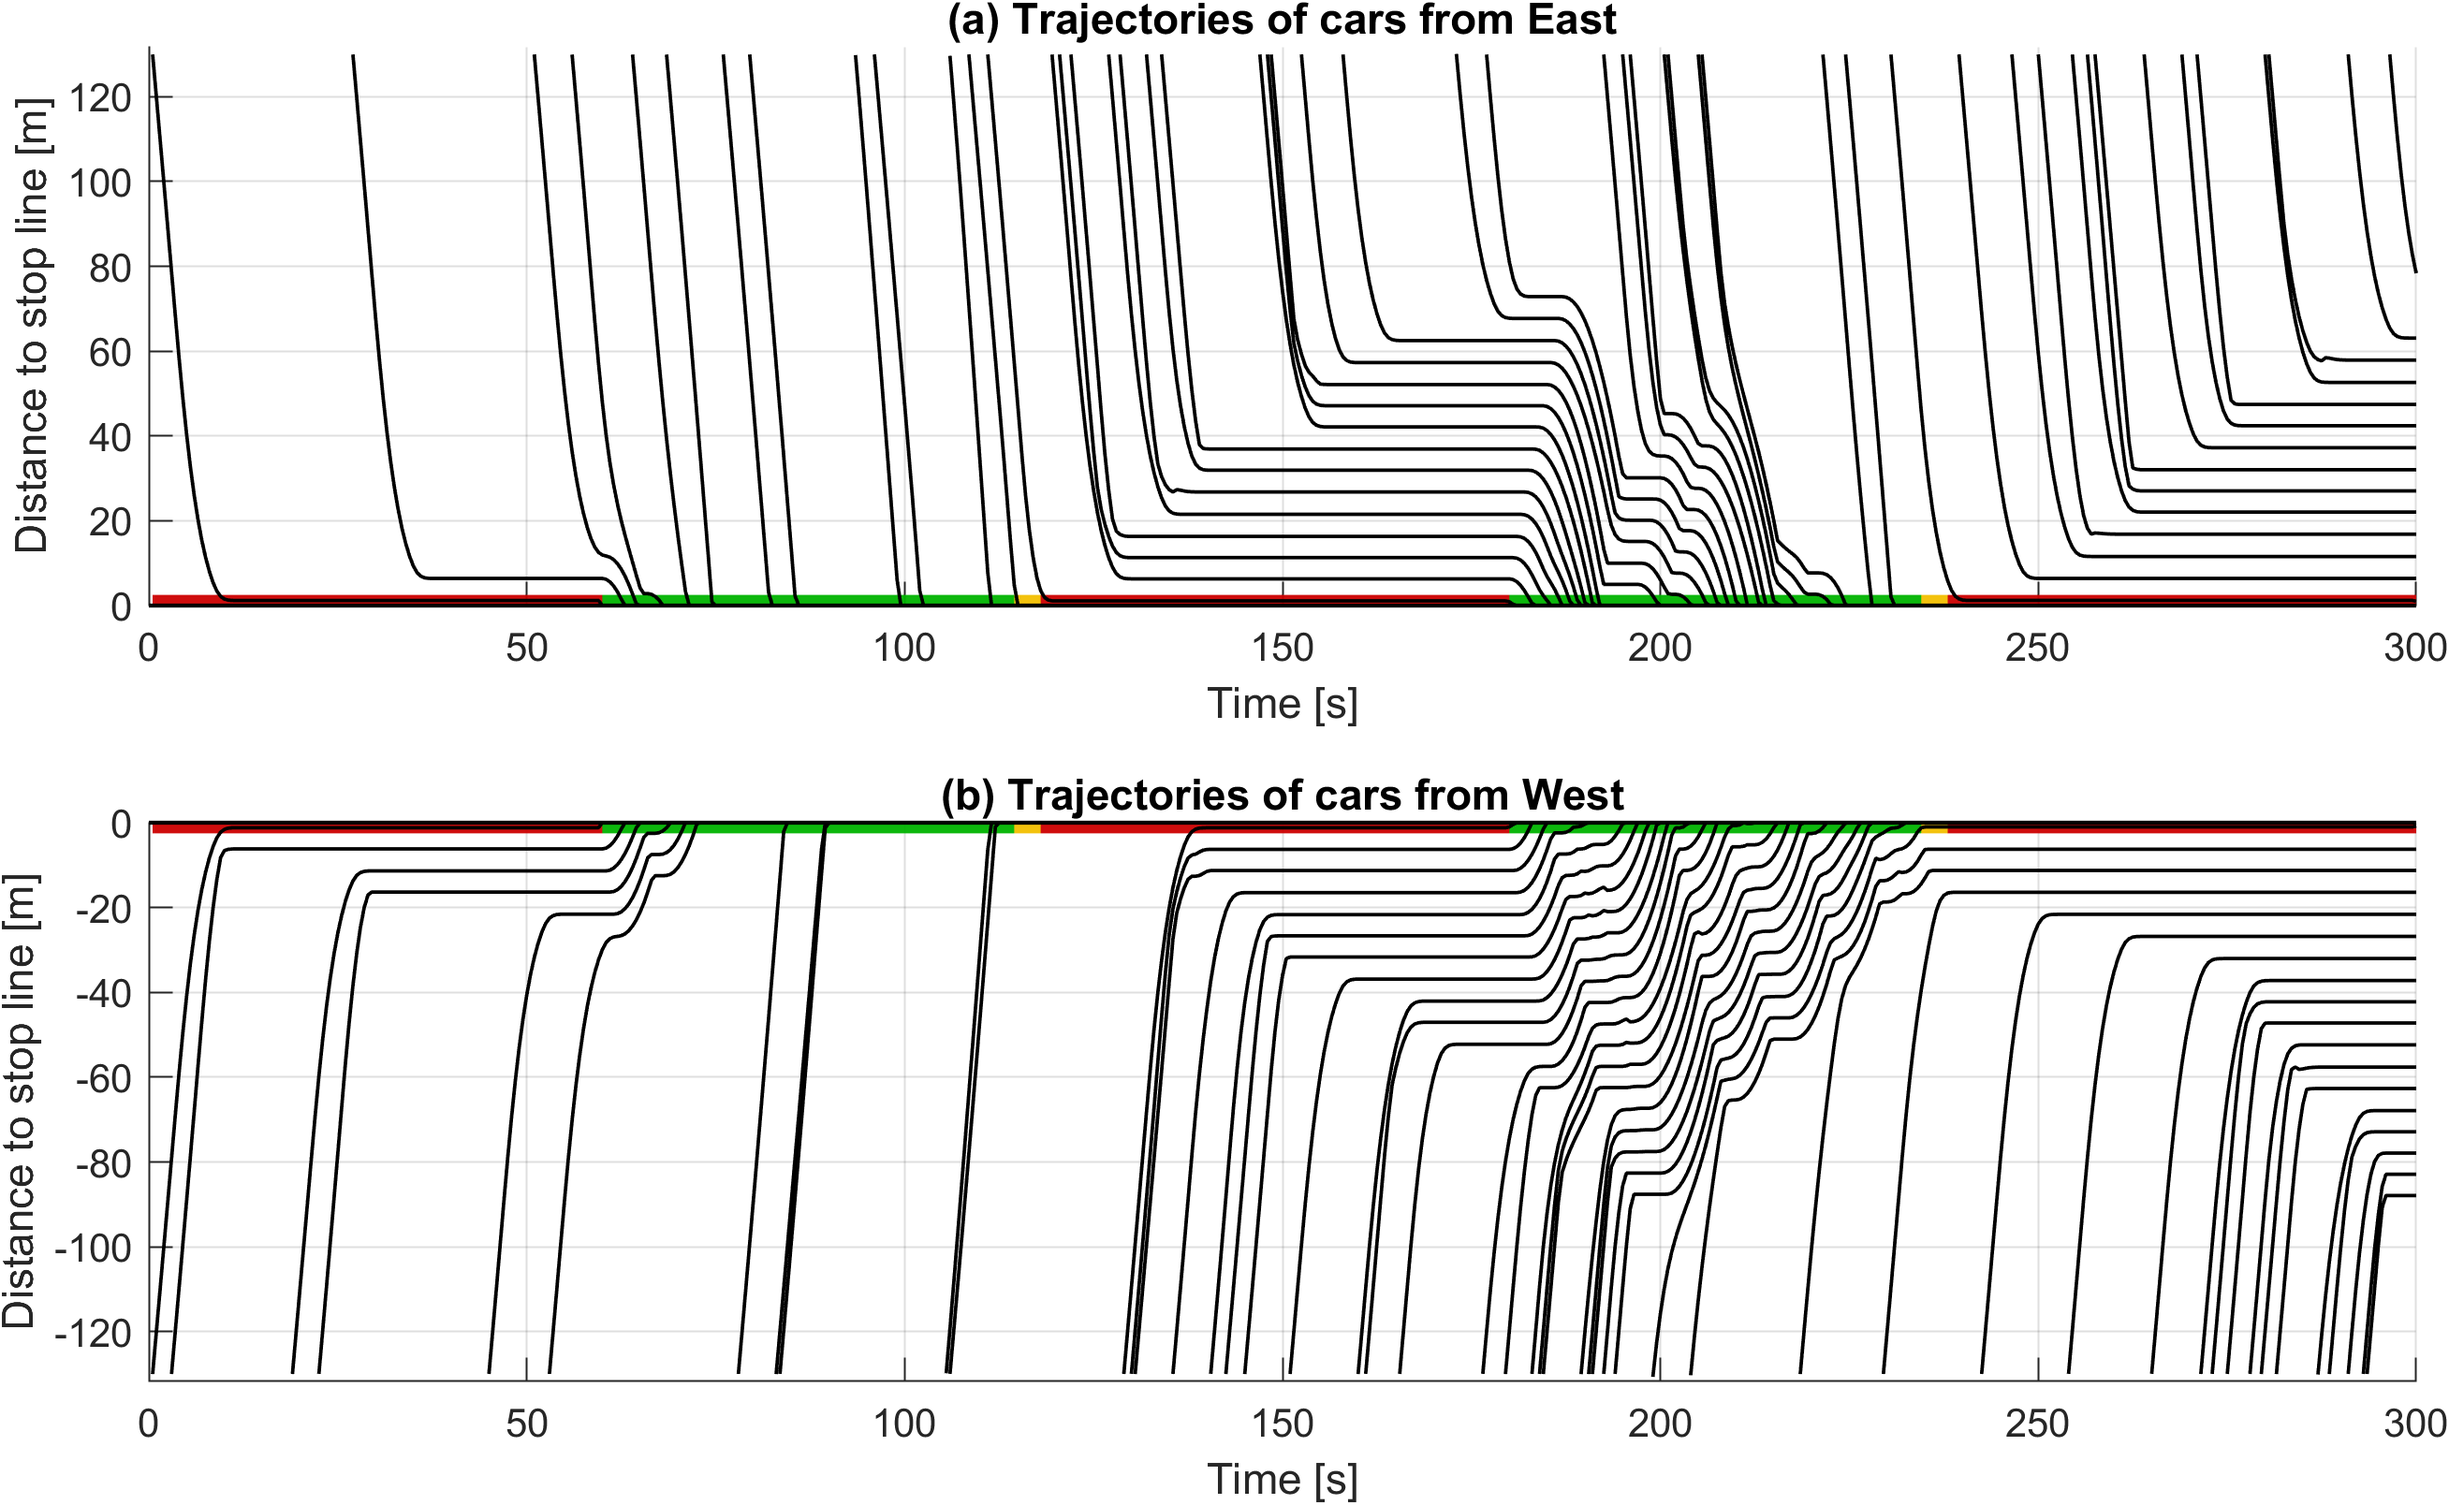
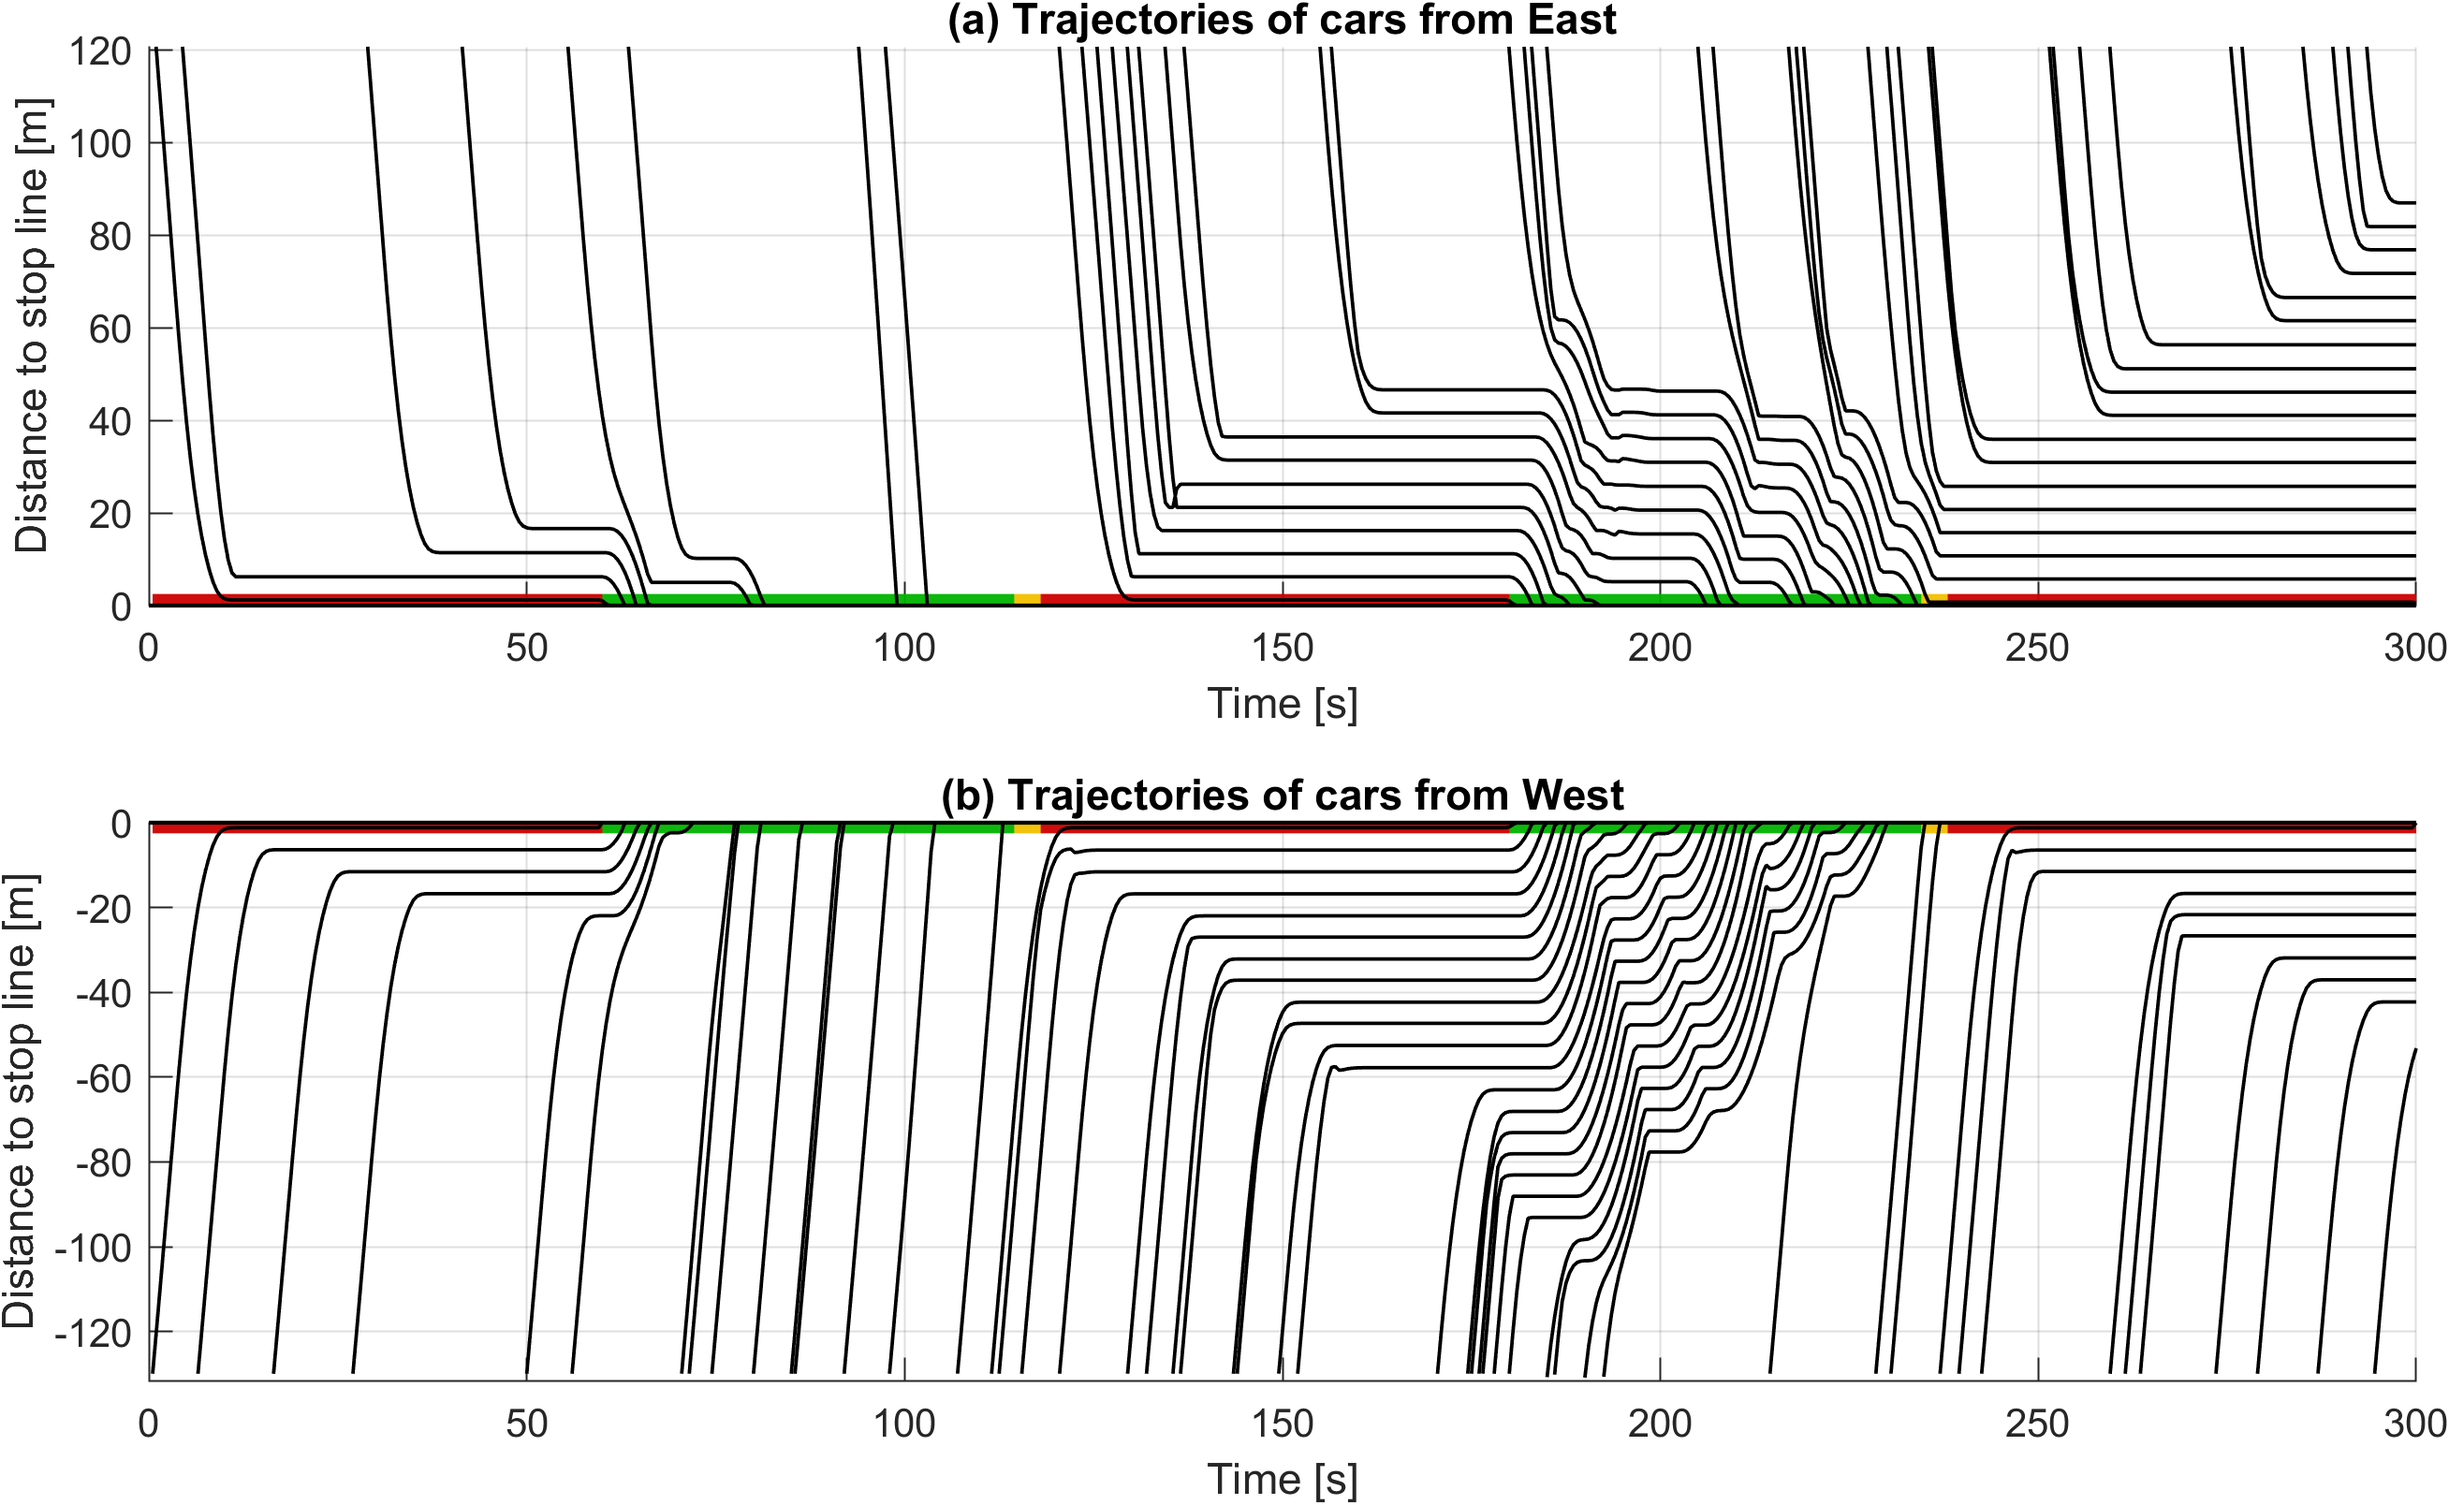
Fix main_v2v_mpc.m

diff --git a/main/main_v2v_mpc.m b/main/main_v2v_mpc.m
@@ -1126,88 +1126,80 @@ for KK = 1:KKmax
     % --- EAST direction position clamping ---
     for i = 1:length(CarE)
         car = CarE(i);
-
-        % Find the car ahead (closest car with larger X)
+        nearestGap = inf; leadCar = [];
         for j = 1:length(CarE)
             if j ~= i && CarE(j).X > car.X
-                leadCar = CarE(j);
-                gap = leadCar.X - car.X;
-
-                % If gap is too small, clamp position
-                if gap < minSafeGap
-                    maxAllowedX = leadCar.X - minSafeGap;
-                    CarE(i).X = maxAllowedX;
-                    CarE(i).V = min(CarE(i).V, leadCar.V);  % Can't go faster than lead
-                    fprintf('POSITION CLAMPED CarE %d: behind Car %d, gap was %.2f\n', ...
-                        car.ID, leadCar.ID, gap);
+                g = CarE(j).X - car.X;
+                if g < nearestGap
+                    nearestGap = g;
+                    leadCar = CarE(j);
                 end
             end
+        end
+        if ~isempty(leadCar) && nearestGap < minSafeGap
+            CarE(i).X = leadCar.X - minSafeGap;
+            CarE(i).V = min(CarE(i).V, leadCar.V);
+            fprintf('POSITION CLAMPED CarE %d: behind Car %d, gap was %.2f\n', car.ID, leadCar.ID, nearestGap);
         end
     end
 
     % --- WEST direction position clamping ---
     for i = 1:length(CarW)
         car = CarW(i);
-
-        % Find the car ahead (closest car with smaller X for WEST)
+        nearestGap = inf; leadCar = [];
         for j = 1:length(CarW)
             if j ~= i && CarW(j).X < car.X
-                leadCar = CarW(j);
-                gap = car.X - leadCar.X;
-
-                % If gap is too small, clamp position
-                if gap < minSafeGap
-                    minAllowedX = leadCar.X + minSafeGap;
-                    CarW(i).X = minAllowedX;
-                    CarW(i).V = min(CarW(i).V, leadCar.V);
-                    fprintf('POSITION CLAMPED CarW %d: behind Car %d, gap was %.2f\n', ...
-                        car.ID, leadCar.ID, gap);
+                g = car.X - CarW(j).X;
+                if g < nearestGap
+                    nearestGap = g;
+                    leadCar = CarW(j);
                 end
             end
+        end
+        if ~isempty(leadCar) && nearestGap < minSafeGap
+            CarW(i).X = leadCar.X + minSafeGap;
+            CarW(i).V = min(CarW(i).V, leadCar.V);
+            fprintf('POSITION CLAMPED CarW %d: behind Car %d, gap was %.2f\n', car.ID, leadCar.ID, nearestGap);
         end
     end
 
     % --- NORTH direction position clamping ---
     for i = 1:length(CarN)
         car = CarN(i);
-
-        % Find the car ahead (closest car with larger Y for NORTH)
+        nearestGap = inf; leadCar = [];
         for j = 1:length(CarN)
             if j ~= i && CarN(j).Y > car.Y
-                leadCar = CarN(j);
-                gap = leadCar.Y - car.Y;
-
-                % If gap is too small, clamp position
-                if gap < minSafeGap
-                    maxAllowedY = leadCar.Y - minSafeGap;
-                    CarN(i).Y = maxAllowedY;
-                    CarN(i).V = min(CarN(i).V, leadCar.V);
-                    fprintf('POSITION CLAMPED CarN %d: behind Car %d, gap was %.2f\n', ...
-                        car.ID, leadCar.ID, gap);
+                g = CarN(j).Y - car.Y;
+                if g < nearestGap
+                    nearestGap = g;
+                    leadCar = CarN(j);
                 end
             end
+        end
+        if ~isempty(leadCar) && nearestGap < minSafeGap
+            CarN(i).Y = leadCar.Y - minSafeGap;
+            CarN(i).V = min(CarN(i).V, leadCar.V);
+            fprintf('POSITION CLAMPED CarN %d: behind Car %d, gap was %.2f\n', car.ID, leadCar.ID, nearestGap);
         end
     end
 
     % --- SOUTH direction position clamping ---
     for i = 1:length(CarS)
         car = CarS(i);
-
-        % Find the car ahead (closest car with smaller Y for SOUTH)
+        nearestGap = inf; leadCar = [];
         for j = 1:length(CarS)
             if j ~= i && CarS(j).Y < car.Y
-                leadCar = CarS(j);
-                gap = car.Y - leadCar.Y;
-
-                % If gap is too small, clamp position
-                if gap < minSafeGap
-                    minAllowedY = leadCar.Y + minSafeGap;
-                    CarS(i).Y = minAllowedY;
-                    CarS(i).V = min(CarS(i).V, leadCar.V);
-                    fprintf('POSITION CLAMPED CarS %d: behind Car %d, gap was %.2f\n', ...
-                        car.ID, leadCar.ID, gap);
+                g = car.Y - CarS(j).Y;
+                if g < nearestGap
+                    nearestGap = g;
+                    leadCar = CarS(j);
                 end
             end
+        end
+        if ~isempty(leadCar) && nearestGap < minSafeGap
+            CarS(i).Y = leadCar.Y + minSafeGap;
+            CarS(i).V = min(CarS(i).V, leadCar.V);
+            fprintf('POSITION CLAMPED CarS %d: behind Car %d, gap was %.2f\n', car.ID, leadCar.ID, nearestGap);
         end
     end
 
